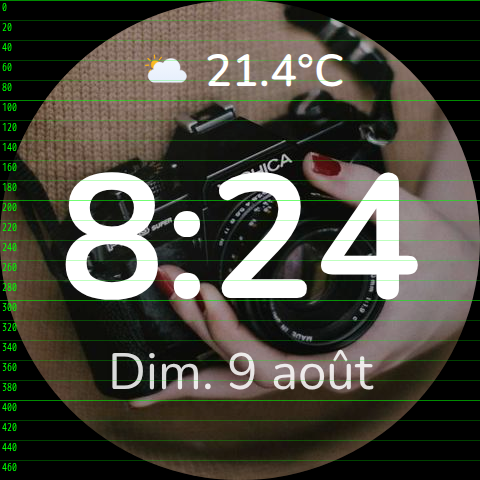
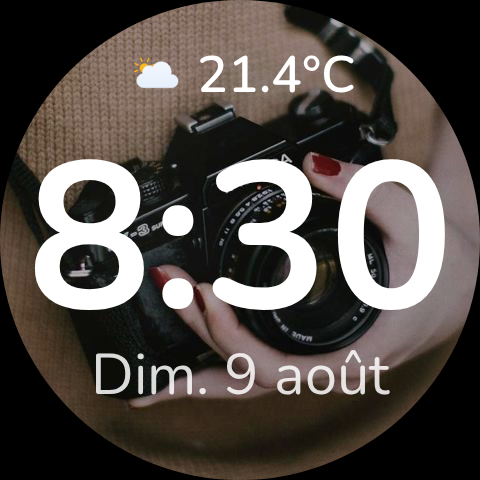
1.0.10: agrandit les polices du mode round, corrige la capture souillée
La capture round de la 1.0.9 avait été livrée avec la règle de mesure
en pixels encore visible dessus — régénérée proprement (script de
nettoyage défaillant).

Polices du mode round agrandies (Echo Spot, écran plus petit que l'Echo
Show, gagne à des tailles plus généreuses) : horloge, date, icône et
température météo toutes revues à la hausse. Position de la date
(formule relative de la 1.0.9) reste correcte après le changement de
taille, vérifié par mesure.

diff --git a/dist/echo-home-card.js b/dist/echo-home-card.js
@@ -1001,10 +1001,10 @@ R(V, "properties", {
        overrides directs de .clock/.date/...) pour que le calc() du
        décalage de la date (cf. .date ci-dessus) reste juste ici aussi. */
     .card.round {
-      --_clock-size: clamp(3.6rem, 48vmin, 11rem);
-      --_date-size: clamp(1.4rem, 12vmin, 3.2rem);
-      --_weather-icon-size: clamp(36px, 13vmin, 72px);
-      --_weather-temp-size: clamp(1.4rem, 12vmin, 2.8rem);
+      --_clock-size: clamp(4rem, 50vmin, 13rem);
+      --_date-size: clamp(1.6rem, 13vmin, 3.6rem);
+      --_weather-icon-size: clamp(40px, 14vmin, 84px);
+      --_weather-temp-size: clamp(1.6rem, 13vmin, 3.2rem);
     }
   `);
 customElements.define(ge, V);

diff --git a/src/echo-home-card.js b/src/echo-home-card.js
@@ -453,10 +453,10 @@ class EchoHomeCard extends LitElement {
        overrides directs de .clock/.date/...) pour que le calc() du
        décalage de la date (cf. .date ci-dessus) reste juste ici aussi. */
     .card.round {
-      --_clock-size: clamp(3.6rem, 48vmin, 11rem);
-      --_date-size: clamp(1.4rem, 12vmin, 3.2rem);
-      --_weather-icon-size: clamp(36px, 13vmin, 72px);
-      --_weather-temp-size: clamp(1.4rem, 12vmin, 2.8rem);
+      --_clock-size: clamp(4rem, 50vmin, 13rem);
+      --_date-size: clamp(1.6rem, 13vmin, 3.6rem);
+      --_weather-icon-size: clamp(40px, 14vmin, 84px);
+      --_weather-temp-size: clamp(1.6rem, 13vmin, 3.2rem);
     }
   `;
 }

diff --git a/CHANGELOG.md b/CHANGELOG.md
@@ -1,5 +1,17 @@
 # Changelog
 
+## 1.0.10
+
+- Capture `docs/screenshot-round.png` de la 1.0.9 livrée par erreur avec
+  la règle de mesure en pixels encore visible dessus (script de nettoyage
+  qui n'a pas retiré l'overlay) — régénérée proprement.
+- Polices du mode round agrandies (Echo Spot : écran plus petit,
+  bénéficie de tailles plus généreuses) : horloge ~176px→208px, date
+  ~51px→58px, icône météo ~62px→67px, température météo ~45px→51px sur
+  un écran 480x480. Repositionnement de la date (1.0.9) toujours correct
+  après coup (vérifié) puisque basé sur des coefficients relatifs, pas
+  des valeurs fixes.
+
 ## 1.0.9
 
 - Mode round : position de la date revue spécifiquement pour l'écran
